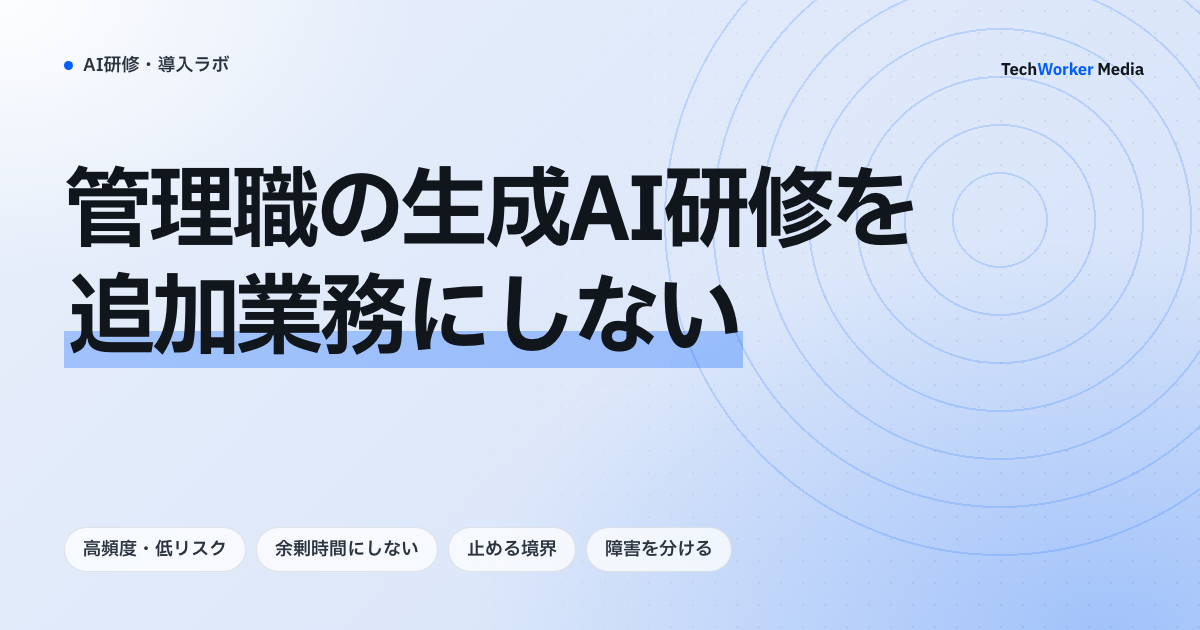
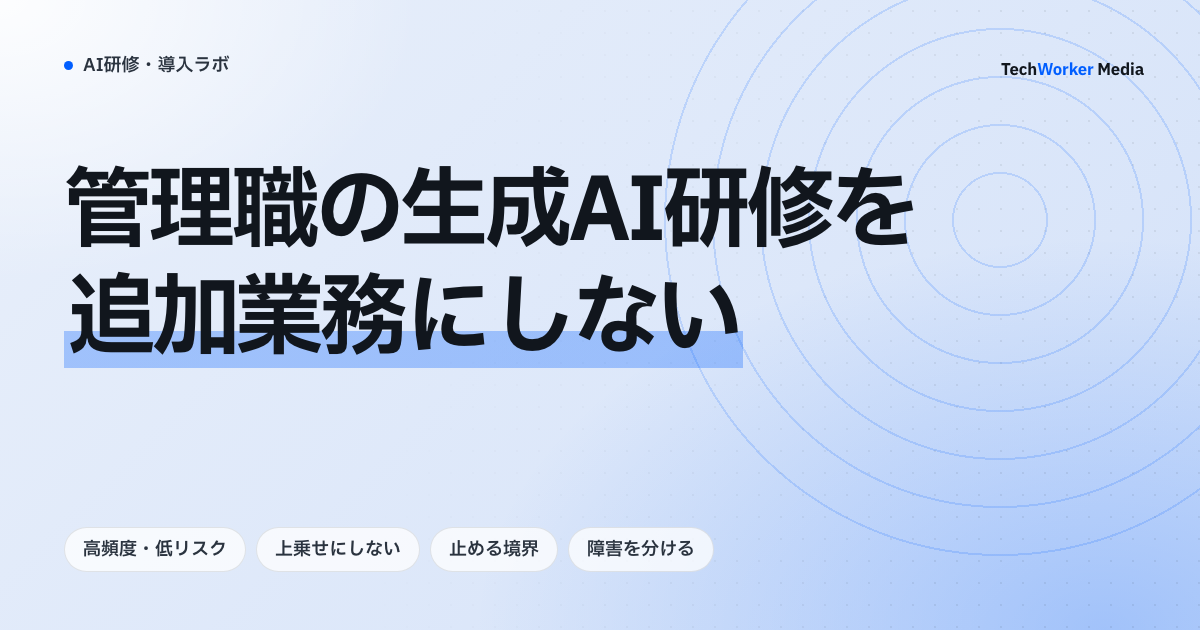
fix(media): 研修の表紙9本の文言を本文に合わせて直す

Changed region(s): [[0.2158, 0.8444, 0.6167, 0.9048]]

diff --git a/media/kenshu/index.html b/media/kenshu/index.html
@@ -292,14 +292,14 @@ fbq('init','1264057945446029');fbq('track','PageView');
 <a href="claude-code-existing-code-fix-training.html"><img class="l-thumb" src="covers/thumbs/claude-code-existing-code-fix-training.jpg" alt="Claude Codeで既存コードを直す研修。意図外変更と差戻しをAIなしの基準値と比べる" width="600" height="315" loading="lazy"><div class="l-side"><div class="l-cat">Claude Codeの活用</div><div class="l-date">2026.09.27</div></div><div><div class="l-title">Claude Codeで既存コードを安全に直す実務研修｜調査・計画・テスト・レビューの進め方</div><div class="l-desc">Claude Codeで既存コードを直す研修を、再現、Plan Mode、小さな差分、テスト、人のレビューまで一連の演習として設計する方法を解説します。</div></div><div class="l-arrow">→</div></a>
     <a href="copilot-sharepoint-permission-audit.html"><img class="l-thumb" src="covers/thumbs/copilot-sharepoint-permission-audit.jpg" alt="SharePointの権限を導入前に棚卸し。情シス・所有者・試験利用者が、サイトを棚卸しする→検索を試す→共有を修正する→研修へつなぐ→月次で見直すの順に進める業務図" width="600" height="315" loading="lazy"><div class="l-side"><div class="l-cat">社内ルールと安全</div><div class="l-date">2026.09.21</div></div><div><div class="l-title">Microsoft 365 Copilot導入前のSharePoint権限棚卸し｜過剰共有を防ぐ実務</div><div class="l-desc">Copilot導入前にSharePointとOneDriveの過剰共有、所有者不在、高リスクsiteを見つけ、制限機能と恒久的な権限修正を分けて進める方法を解説します。</div></div><div class="l-arrow">&rarr;</div></a>
     <a href="copilot-chat-usage-report-training-design.html"><img class="l-thumb" src="covers/thumbs/copilot-chat-usage-report-training-design.jpg" alt="Copilot Chatの数字を研修課題へ。推進担当・レポートが、利用を集計する→入口と回数を分ける→原因を診断する→課題へ翻訳する→月次で見直すの順に進める業務図" width="600" height="315" loading="lazy"><div class="l-side"><div class="l-cat">定着と効果測定</div><div class="l-date">2026.09.19</div></div><div><div class="l-title">Copilot Chat利用レポートを研修へ使う｜非ライセンス利用者の定着を測る</div><div class="l-desc">Microsoft Copilotライセンスを持たないCopilot Chat利用者のactive users、prompt、入口、継続を、対象を混同せず研修改善へつなげる方法を解説します。</div></div><div class="l-arrow">&rarr;</div></a>
-    <a href="m365-copilot-usage-report-training-gap-analysis.html"><img class="l-thumb" src="covers/thumbs/m365-copilot-usage-report-training-gap-analysis.jpg" alt="Copilotの利用レポートを研修改善に使う。対象・有効化・利用・継続を分けて数字を読む" width="600" height="315" loading="lazy"><div class="l-side"><div class="l-cat">定着と効果測定</div><div class="l-date">2026.09.18</div></div><div><div class="l-title">Microsoft 365 Copilotの利用レポートを研修改善に使う｜数字の読み違いを防ぐ</div><div class="l-desc">Microsoft 365 CopilotとCopilot Chatの利用レポートを混同せず、利用者、継続、アプリ別行動を研修課題へ変える方法を解説します。</div></div><div class="l-arrow">&rarr;</div></a>
+    <a href="m365-copilot-usage-report-training-gap-analysis.html"><img class="l-thumb" src="covers/thumbs/m365-copilot-usage-report-training-gap-analysis.jpg" alt="Copilotの利用レポートを研修改善に使う。有効化・利用・継続を分けて数字を読む" width="600" height="315" loading="lazy"><div class="l-side"><div class="l-cat">定着と効果測定</div><div class="l-date">2026.09.18</div></div><div><div class="l-title">Microsoft 365 Copilotの利用レポートを研修改善に使う｜数字の読み違いを防ぐ</div><div class="l-desc">Microsoft 365 CopilotとCopilot Chatの利用レポートを混同せず、利用者、継続、アプリ別行動を研修課題へ変える方法を解説します。</div></div><div class="l-arrow">&rarr;</div></a>
     <a href="generative-ai-poc-theme-selection.html"><img class="l-thumb" src="covers/thumbs/generative-ai-poc-theme-selection.jpg" alt="生成AIのPoCテーマを絞る流れ。推進担当・現場担当が、外す案を決める→四つの軸で比べる→判断条件を置く→難しい工程を試す→広げるか決めるの順に進める業務図" width="600" height="315" loading="lazy"><div class="l-side"><div class="l-cat">導入と業務への組み込み</div><div class="l-date">2026.09.17</div></div><div><div class="l-title">生成AIのPoCテーマの選び方｜「便利そう」ではなく、業務・データ・確認負荷で絞る</div><div class="l-desc">生成AI導入の最初のPoCで何を対象にするか。業務価値、データ準備度、確認負荷、利用者の実行意欲を分け、研修と小規模検証を次の展開判断へつなげる方法を解説します。</div></div><div class="l-arrow">&rarr;</div></a>
     <a href="generative-ai-manager-training-design.html"><img class="l-thumb" src="covers/thumbs/generative-ai-manager-training-design.jpg" alt="管理職の生成AI研修を追加業務にしない。試す業務・時間・止める境界・利用不足の四つを決める" width="600" height="315" loading="lazy"><div class="l-side"><div class="l-cat">研修の設計と運営</div><div class="l-date">2026.09.16</div></div><div><div class="l-title">生成AI研修の管理職向け設計｜部下の活用を追加業務にしない4つの判断</div><div class="l-desc">管理職向け生成AI研修を、操作説明ではなく優先業務、試行時間、確認責任、導入障害の除去へ接続する実務設計を解説します。</div></div><div class="l-arrow">&rarr;</div></a>
     <a href="ai-literacy-training-design.html"><img class="l-thumb" src="covers/thumbs/ai-literacy-training-design.jpg" alt="AIリテラシー研修を役割ごとに設計する。利用者・承認者・運用者の三層に分けて演習へ落とす" width="600" height="315" loading="lazy"><div class="l-side"><div class="l-cat">研修の設計と運営</div><div class="l-date">2026.09.15</div></div><div><div class="l-title">生成AI研修のAIリテラシー設計｜ツール操作で終わらせない、役割と利用場面の決め方</div><div class="l-desc">生成AI研修のAIリテラシーは、全員に同じ知識を覚えさせることではありません。役割・利用場面・確認責任に分け、国内外の公式指針を研修計画へ翻訳する方法を解説します。</div></div><div class="l-arrow">&rarr;</div></a>
-    <a href="generative-ai-training-content-lifecycle.html"><img class="l-thumb" src="covers/thumbs/generative-ai-training-content-lifecycle.jpg" alt="生成AI研修の教材を古くしない運用。四つのきっかけで更新し、旧版の停止まで一組にする" width="600" height="315" loading="lazy"><div class="l-side"><div class="l-cat">定着と効果測定</div><div class="l-date">2026.09.14</div></div><div><div class="l-title">生成AI研修の教材更新｜モデル・ルール・業務の変化に追随する運用設計</div><div class="l-desc">生成AI研修は一度配って終わりではありません。モデル更新、社内ルール、業務手順、現場の失敗を更新トリガーにし、教材を版管理して古い助言を残さない実務を解説します。</div></div><div class="l-arrow">&rarr;</div></a>
+    <a href="generative-ai-training-content-lifecycle.html"><img class="l-thumb" src="covers/thumbs/generative-ai-training-content-lifecycle.jpg" alt="生成AI研修の教材を古くしない運用。四つのきっかけで更新し、旧版を停止する" width="600" height="315" loading="lazy"><div class="l-side"><div class="l-cat">定着と効果測定</div><div class="l-date">2026.09.14</div></div><div><div class="l-title">生成AI研修の教材更新｜モデル・ルール・業務の変化に追随する運用設計</div><div class="l-desc">生成AI研修は一度配って終わりではありません。モデル更新、社内ルール、業務手順、現場の失敗を更新トリガーにし、教材を版管理して古い助言を残さない実務を解説します。</div></div><div class="l-arrow">&rarr;</div></a>
     <a href="generative-ai-training-champion-network.html"><img class="l-thumb" src="covers/thumbs/generative-ai-training-champion-network.jpg" alt="生成AI研修のチャンピオン制度。現場・中央・専門部門で役割を分け、権限を持たせすぎない" width="600" height="315" loading="lazy"><div class="l-side"><div class="l-cat">定着と効果測定</div><div class="l-date">2026.09.13</div></div><div><div class="l-title">生成AI研修のチャンピオン制度｜受講者を現場の推進者にする前に決めること</div><div class="l-desc">生成AI研修の受講者をAIチャンピオンに任命しても、役割・時間・相談経路・評価が曖昧なら定着しません。中央の推進組織と現場をつなぐ、負荷を集中させない設計を解説します。</div></div><div class="l-arrow">&rarr;</div></a>
     <a href="generative-ai-training-office-hours.html"><img class="l-thumb" src="covers/thumbs/generative-ai-training-office-hours.jpg" alt="研修後の質問を学習資産へ回す。受講者・講師・責任者が、質問を投稿する→質問を分類する→例外を判断する→回答を記録する→月次で見直すの順に進める業務図" width="600" height="315" loading="lazy"><div class="l-side"><div class="l-cat">定着と効果測定</div><div class="l-date">2026.09.12</div></div><div><div class="l-title">生成AI研修後のオフィスアワー設計｜質問を現場の学びと利用ルール改善につなげる</div><div class="l-desc">生成AI研修後に設ける相談窓口・オフィスアワーを、単発の質問対応で終わらせず、実務利用・安全な判断・研修改善へつなげる設計を解説します。</div></div><div class="l-arrow">&rarr;</div></a>
-    <a href="generative-ai-training-needs-assessment.html"><img class="l-thumb" src="covers/thumbs/generative-ai-training-needs-assessment.jpg" alt="事前アセスメントを学習設計に使う。業務課題・出力確認・入力判断を短い場面で確かめる" width="600" height="315" loading="lazy"><div class="l-side"><div class="l-cat">研修の設計と運営</div><div class="l-date">2026.09.11</div></div><div><div class="l-title">生成AI研修の事前アセスメント｜受講前のスキル診断を業務課題につなげる</div><div class="l-desc">生成AI研修の前に、受講者のツール経験だけでなく、業務課題・確認方法・リスク判断を把握する事前アセスメントの設計を解説します。</div></div><div class="l-arrow">&rarr;</div></a>
+    <a href="generative-ai-training-needs-assessment.html"><img class="l-thumb" src="covers/thumbs/generative-ai-training-needs-assessment.jpg" alt="事前アセスメントを学習設計に使う。業務課題・出力確認・入力判断を確かめる" width="600" height="315" loading="lazy"><div class="l-side"><div class="l-cat">研修の設計と運営</div><div class="l-date">2026.09.11</div></div><div><div class="l-title">生成AI研修の事前アセスメント｜受講前のスキル診断を業務課題につなげる</div><div class="l-desc">生成AI研修の前に、受講者のツール経験だけでなく、業務課題・確認方法・リスク判断を把握する事前アセスメントの設計を解説します。</div></div><div class="l-arrow">&rarr;</div></a>
     <a href="generative-ai-policy-training-design.html"><img class="l-thumb" src="covers/thumbs/generative-ai-policy-training-design.jpg" alt="利用ルールを四つの問いで判断する。利用者・確認者・AIが、入力の可否を見る→目的を確かめる→出力を下書きする→出力を確認する→相談先へ記録するの順に進める業務図" width="600" height="315" loading="lazy"><div class="l-side"><div class="l-cat">社内ルールと安全</div><div class="l-date">2026.09.10</div></div><div><div class="l-title">生成AIの社内利用ルールを研修へ落とし込む｜禁止リストだけで終わらせない設計</div><div class="l-desc">生成AIの社内利用ルールを、現場が判断・相談・確認できる研修に変える方法を解説。入力、目的、出力確認、相談・記録の四つの判断を整理します。</div></div><div class="l-arrow">&rarr;</div></a>
     <a href="generative-ai-training-exercise-design.html"><img class="l-thumb" src="covers/thumbs/generative-ai-training-exercise-design.jpg" alt="生成AI研修の演習を判断の練習に変える。入力・生成・判断・修正の四段で評価表を作る" width="600" height="315" loading="lazy"><div class="l-side"><div class="l-cat">研修の設計と運営</div><div class="l-date">2026.09.09</div></div><div><div class="l-title">生成AI研修の演習課題をどう作るか｜実データを使わず業務に近づける設計</div><div class="l-desc">生成AI研修の演習をプロンプト練習だけで終わらせず、業務の入力・判断・確認・修正まで再現する設計を解説。機密データを持ち込まない教材化、評価表、製品別の使い分けを整理します。</div></div><div class="l-arrow">&rarr;</div></a>
     <a href="generative-ai-training-role-based-design.html"><img class="l-thumb" src="covers/thumbs/generative-ai-training-role-based-design.jpg" alt="生成AI研修を役割別に分ける。管理職・現場・情シスで到達基準を変える" width="600" height="315" loading="lazy"><div class="l-side"><div class="l-cat">研修の設計と運営</div><div class="l-date">2026.09.08</div></div><div><div class="l-title">生成AI研修を職種別に設計する｜管理職・現場・情シスで変える到達基準</div><div class="l-desc">生成AI研修を全員同じ内容で行わず、管理職・現場利用者・情シス／法務で到達基準と演習を分ける方法を解説。安全な判断、業務適用、ガバナンスを役割別に設計します。</div></div><div class="l-arrow">&rarr;</div></a>
@@ -318,7 +318,7 @@ fbq('init','1264057945446029');fbq('track','PageView');
       </div>
       <div class="l-arrow">&rarr;</div>
     </a>
-    <a href="claude-code-jirei.html"><img class="l-thumb" src="covers/thumbs/claude-code-jirei.jpg" alt="Claude Codeの導入事例を前提から読む。実名と出典つきの公開事例8件を4観点で読む" width="600" height="315" loading="lazy">
+    <a href="claude-code-jirei.html"><img class="l-thumb" src="covers/thumbs/claude-code-jirei.jpg" alt="Claude Codeの導入事例を前提から読む。実名と出典つきの公開事例8件を読む" width="600" height="315" loading="lazy">
       <div class="l-side">
         <div class="l-cat">Claude Codeの活用</div>
         <div class="l-date">2026.08.01</div>
@@ -362,7 +362,7 @@ fbq('init','1264057945446029');fbq('track','PageView');
       </div>
       <div class="l-arrow">&rarr;</div>
     </a>
-    <a href="claude-code-shanai-tenkai.html"><img class="l-thumb" src="covers/thumbs/claude-code-shanai-tenkai.jpg" alt="Claude Codeの社内展開を整える。契約・設定配布・利用ルール・監査を順に決める" width="600" height="315" loading="lazy">
+    <a href="claude-code-shanai-tenkai.html"><img class="l-thumb" src="covers/thumbs/claude-code-shanai-tenkai.jpg" alt="Claude Codeの社内展開を整える。契約・設定配布・利用ルール・監査を決める" width="600" height="315" loading="lazy">
       <div class="l-side">
         <div class="l-cat">Claude Codeの活用</div>
         <div class="l-date">2026.07.29</div>
@@ -406,7 +406,7 @@ fbq('init','1264057945446029');fbq('track','PageView');
       </div>
       <div class="l-arrow">&rarr;</div>
     </a>
-    <a href="gemini-dounyu.html"><img class="l-thumb" src="covers/thumbs/gemini-dounyu.jpg" alt="Geminiの社内利用を決めてから開ける。開ける範囲・利用ルール・展開の順番を先に決める" width="600" height="315" loading="lazy">
+    <a href="gemini-dounyu.html"><img class="l-thumb" src="covers/thumbs/gemini-dounyu.jpg" alt="Geminiの社内利用を決めてから開ける。開ける範囲・利用ルール・展開の順を決める" width="600" height="315" loading="lazy">
       <div class="l-side">
         <div class="l-cat">導入と業務への組み込み</div>
         <div class="l-date">2026.07.24</div>

diff --git a/media/kenshu/generative-ai-training-content-lifecycle.html b/media/kenshu/generative-ai-training-content-lifecycle.html
@@ -20,7 +20,7 @@
   <a href="index.html#about">このメディアについて</a>
   <a href="../../training.html" class="m-cta">無料相談を申し込む</a>
 </div>
-<header class="art-head"><nav class="crumb" aria-label="パンくず"><a href="../../index.html">ホーム</a><span class="sep">/</span><a href="../index.html">メディア</a><span class="sep">/</span><a href="index.html">AI研修・導入ラボ</a></nav><div class="kicker">定着と効果測定</div><h1>生成AI研修の教材更新｜モデル・ルール・業務の変化に追随する運用設計</h1><p class="dek">&quot;生成AI研修は一度配って終わりではありません。モデル更新、社内ルール、業務手順、現場の失敗を更新トリガーにし、教材を版管理して古い助言を残さない実務を解説します。&quot;</p><div class="a-meta"><img class="av" src="../../assets/author-furuno.jpg" alt="古野光太朗"><span class="who">古野光太朗</span><span class="dot">·</span><span>2026.09.14</span><span class="dot">·</span><span>最終更新 2026.10.01</span><span class="dot">·</span><span>一次情報 6件</span></div></header><img class="daily-cover" src="covers/generative-ai-training-content-lifecycle.png" alt="生成AI研修の教材を古くしない運用。四つのきっかけで更新し、旧版の停止まで一組にする" width="1200" height="630">
+<header class="art-head"><nav class="crumb" aria-label="パンくず"><a href="../../index.html">ホーム</a><span class="sep">/</span><a href="../index.html">メディア</a><span class="sep">/</span><a href="index.html">AI研修・導入ラボ</a></nav><div class="kicker">定着と効果測定</div><h1>生成AI研修の教材更新｜モデル・ルール・業務の変化に追随する運用設計</h1><p class="dek">&quot;生成AI研修は一度配って終わりではありません。モデル更新、社内ルール、業務手順、現場の失敗を更新トリガーにし、教材を版管理して古い助言を残さない実務を解説します。&quot;</p><div class="a-meta"><img class="av" src="../../assets/author-furuno.jpg" alt="古野光太朗"><span class="who">古野光太朗</span><span class="dot">·</span><span>2026.09.14</span><span class="dot">·</span><span>最終更新 2026.10.01</span><span class="dot">·</span><span>一次情報 6件</span></div></header><img class="daily-cover" src="covers/generative-ai-training-content-lifecycle.png" alt="生成AI研修の教材を古くしない運用。四つのきっかけで更新し、旧版を停止する" width="1200" height="630">
 <div class="art-layout"><nav class="art-toc" aria-label="目次"><div class="art-toc-inner"><div class="toc-h">目次</div><a href="#s1">最初に「教材の正しさ」を五項目で定義する</a><a href="#s2">更新トリガーを四つに限定する</a><a href="#s3">改訂は「書き換え」ではなく、利用停止まで一組にする</a><a href="#s4">再受講は全員一律でなく、変化の大きさで分ける</a><a href="#s5">適用限界</a></div></nav><article class="art-body"><div class="lede"><div class="lede-h">この記事の要点</div><ul><li>配った教材は公開した瞬間から古くなり始める。版番号、所有者、対象者、利用条件、次回確認日を持つ運用資産として、更新と廃止を前提に扱う。</li><li>更新のきっかけは利用環境、社内ルール、業務、現場シグナルの四つに絞る。改訂は影響判定から旧版の停止までを一組で行い、古い版を残さない。</li><li>再受講は全員一律にせず、軽微、重要、停止・制限の三段階に分ける。影響のない更新まで再受講を強いると、重要な警告が読まれなくなる。</li></ul></div><p>生成AI研修で配ったスライド、プロンプト例、確認リストは、公開した瞬間から古くなり始めます。モデルや画面の変更だけが理由ではありません。社内の利用ルール、接続できるデータ、承認経路、対象業務の手順が変われば、昨日までの「正しい使い方」が今日の誤案内になることがあります。</p>
 <p>だから教材を増やし続けるのではなく、更新と廃止を前提にします。研修コンテンツを、版番号・所有者・対象者・利用条件・次回確認日を持つ運用資産にし、変化を検知したときだけ、必要な受講者へ短く確実に届けます。全員を毎回再受講させる運用でも、古い資料を各部署に放置する運用でもありません。</p>
 <h2 id="s1">最初に「教材の正しさ」を五項目で定義する</h2><p class="answer">教材には対象業務、利用環境、人の確認、対象者、有効期限の五項目を付け、更新対象かを判断する。</p>

diff --git a/media/kenshu/generative-ai-training-needs-assessment.html b/media/kenshu/generative-ai-training-needs-assessment.html
@@ -20,7 +20,7 @@
   <a href="index.html#about">このメディアについて</a>
   <a href="../../training.html" class="m-cta">無料相談を申し込む</a>
 </div>
-<header class="art-head"><nav class="crumb" aria-label="パンくず"><a href="../../index.html">ホーム</a><span class="sep">/</span><a href="../index.html">メディア</a><span class="sep">/</span><a href="index.html">AI研修・導入ラボ</a></nav><div class="kicker">研修の設計と運営</div><h1>生成AI研修の事前アセスメント｜受講前のスキル診断を業務課題につなげる</h1><p class="dek">&quot;生成AI研修の前に、受講者のツール経験だけでなく、業務課題・確認方法・リスク判断を把握する事前アセスメントの設計を解説します。&quot;</p><div class="a-meta"><img class="av" src="../../assets/author-furuno.jpg" alt="古野光太朗"><span class="who">古野光太朗</span><span class="dot">·</span><span>2026.09.11</span><span class="dot">·</span><span>最終更新 2026.10.01</span><span class="dot">·</span><span>一次情報 7件</span></div></header><img class="daily-cover" src="covers/generative-ai-training-needs-assessment.png" alt="事前アセスメントを学習設計に使う。業務課題・出力確認・入力判断を短い場面で確かめる" width="1200" height="630">
+<header class="art-head"><nav class="crumb" aria-label="パンくず"><a href="../../index.html">ホーム</a><span class="sep">/</span><a href="../index.html">メディア</a><span class="sep">/</span><a href="index.html">AI研修・導入ラボ</a></nav><div class="kicker">研修の設計と運営</div><h1>生成AI研修の事前アセスメント｜受講前のスキル診断を業務課題につなげる</h1><p class="dek">&quot;生成AI研修の前に、受講者のツール経験だけでなく、業務課題・確認方法・リスク判断を把握する事前アセスメントの設計を解説します。&quot;</p><div class="a-meta"><img class="av" src="../../assets/author-furuno.jpg" alt="古野光太朗"><span class="who">古野光太朗</span><span class="dot">·</span><span>2026.09.11</span><span class="dot">·</span><span>最終更新 2026.10.01</span><span class="dot">·</span><span>一次情報 7件</span></div></header><img class="daily-cover" src="covers/generative-ai-training-needs-assessment.png" alt="事前アセスメントを学習設計に使う。業務課題・出力確認・入力判断を確かめる" width="1200" height="630">
 <div class="art-layout"><nav class="art-toc" aria-label="目次"><div class="art-toc-inner"><div class="toc-h">目次</div><a href="#s1">アセスメントの目的を「配属」ではなく「学習設計」に置く</a><a href="#s2">ツール経験以外の三つを確認する</a><a href="#s3">結果をカリキュラムへ変換する</a><a href="#s4">小さく試し、設問を更新する</a><a href="#s5">実務チェックリスト</a><a href="#s6">集計結果の読み方を先に決める</a><a href="#s7">適用限界</a><a href="#s8">関連記事</a></div></nav><article class="art-body"><div class="lede"><div class="lede-h">この記事の要点</div><ul><li>事前アセスメントの目的は人の順位付けではなく、研修で解くべき業務課題と、安全上の不確かさがどこにあるかを把握することである。</li><li>確認するのは、業務課題と利用場面、出力を確かめる力、入力・相談の判断の三つ。結果は初級・上級のラベルでなく研修内容へ変換する。</li><li>結果を人事評価や懲戒の根拠へ転用しない。集計の読み方を先に決め、少人数で設問を試し、ツールや業務が変わったら設問も更新する。</li></ul></div><p>生成AI研修を始める前に確認したいのは、「使ったことがあるか」だけではありません。受講者がどんな業務で使うのか、何を入力してよいと判断しているのか、出力をどう確認するのか、迷ったときに誰へ相談するのかによって、必要な研修は変わります。</p>
 <p>そこで役立つのが、受講前アセスメントです。目的は人を順位付けすることではなく、研修で解くべき業務課題と安全上の不確かさを把握することです。事前の自己申告、業務シナリオ、短い実践課題を組み合わせると、ツール経験の有無だけでは見えない支援点を見つけやすくなります。</p>
 <h2 id="s1">アセスメントの目的を「配属」ではなく「学習設計」に置く</h2><p class="answer">アセスメントの目的は配属ではなく学習設計。結果の使い道、閲覧者、保管期間を先に受講者へ説明する。</p>

diff --git a/media/kenshu/m365-copilot-usage-report-training-gap-analysis.html b/media/kenshu/m365-copilot-usage-report-training-gap-analysis.html
@@ -20,7 +20,7 @@
   <a href="index.html#about">このメディアについて</a>
   <a href="../../training.html" class="m-cta">無料相談を申し込む</a>
 </div>
-<header class="art-head"><nav class="crumb" aria-label="パンくず"><a href="../../index.html">ホーム</a><span class="sep">/</span><a href="../index.html">メディア</a><span class="sep">/</span><a href="index.html">AI研修・導入ラボ</a></nav><div class="kicker">定着と効果測定</div><h1>Microsoft 365 Copilotの利用レポートを研修改善に使う｜数字の読み違いを防ぐ</h1><p class="dek">Microsoft 365 CopilotとCopilot Chatの利用レポートを混同せず、利用者、継続、アプリ別行動を研修課題へ変える方法を解説します。</p><div class="a-meta"><img class="av" src="../../assets/author-furuno.jpg" alt="古野光太朗"><span class="who">古野光太朗</span><span class="dot">·</span><span>2026.09.18</span><span class="dot">·</span><span>最終更新 2026.10.01</span><span class="dot">·</span><span>一次情報 6件</span></div></header><img class="daily-cover" src="covers/m365-copilot-usage-report-training-gap-analysis.png" alt="Copilotの利用レポートを研修改善に使う。対象・有効化・利用・継続を分けて数字を読む" width="1200" height="630">
+<header class="art-head"><nav class="crumb" aria-label="パンくず"><a href="../../index.html">ホーム</a><span class="sep">/</span><a href="../index.html">メディア</a><span class="sep">/</span><a href="index.html">AI研修・導入ラボ</a></nav><div class="kicker">定着と効果測定</div><h1>Microsoft 365 Copilotの利用レポートを研修改善に使う｜数字の読み違いを防ぐ</h1><p class="dek">Microsoft 365 CopilotとCopilot Chatの利用レポートを混同せず、利用者、継続、アプリ別行動を研修課題へ変える方法を解説します。</p><div class="a-meta"><img class="av" src="../../assets/author-furuno.jpg" alt="古野光太朗"><span class="who">古野光太朗</span><span class="dot">·</span><span>2026.09.18</span><span class="dot">·</span><span>最終更新 2026.10.01</span><span class="dot">·</span><span>一次情報 6件</span></div></header><img class="daily-cover" src="covers/m365-copilot-usage-report-training-gap-analysis.png" alt="Copilotの利用レポートを研修改善に使う。有効化・利用・継続を分けて数字を読む" width="1200" height="630">
 <div class="art-layout"><nav class="art-toc" aria-label="目次"><div class="art-toc-inner"><div class="toc-h">目次</div><a href="#s1">先にレポートの対象を固定する</a><a href="#s2">有効化・利用・継続を分ける</a><a href="#s3">アプリ別行動を研修課題へ変える</a><a href="#s4">研修前後は同じ定義で比較する</a><a href="#s5">月次レビューで固定する項目</a><a href="#s6">適用限界</a></div></nav><article class="art-body"><div class="lede"><div class="lede-h">この記事の要点</div><ul><li>利用レポートを開いても研修内容は決まらない。最初に、ライセンス保有者、Chat利用者、エージェント利用のどれを測るレポートかを確認する。</li><li>有効化、利用、継続の三層で見る。有効化が低ければ研修より先に準備を、継続しないなら業務シナリオや時間の確保、上司の承認を見直す。</li><li>研修前後は同じ定義と同じ期間の構成で比べ、利用率だけをKPIにしない。確認漏れも見る。利用ログだけで成果やROIは断定しない。</li></ul></div><p>利用レポートを開いても、研修内容は自動では決まりません。最初に確認すべきは、<strong>そのレポートがライセンス保有者、Copilot Chat利用者、エージェント利用のどれを測っているか</strong>です。母集団を混ぜると、研修後の利用増減を誤って評価します。</p>
 <h2 id="s1">先にレポートの対象を固定する</h2><p class="answer">先にレポートの対象を固定する。ライセンス保有者、Chat利用者、エージェント利用のどれかで母集団が違う。</p>
 <p>Microsoft 365 Copilot usage reportは、Copilotライセンスが有効な利用者について、Enabled Users、Active Users、アプリ別利用、Copilot Chatのprompt数などを示します[1]。一方、Microsoft Copilot Chat usageは、Copilot Chatのactive usageを対象にし、7、30、90、180日の傾向やprompt数を扱います[2]。同じ「Copilot」という名前でも母集団と指標が違います。</p>
